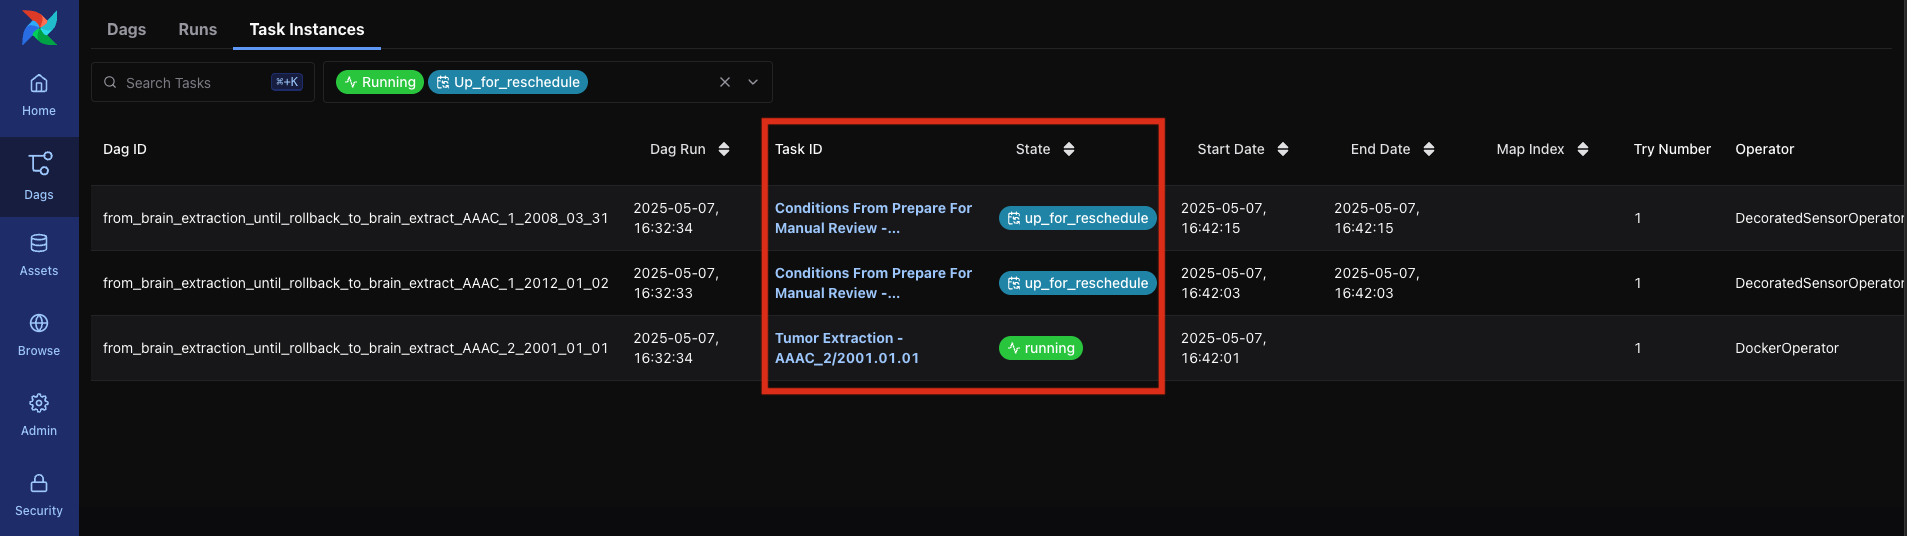
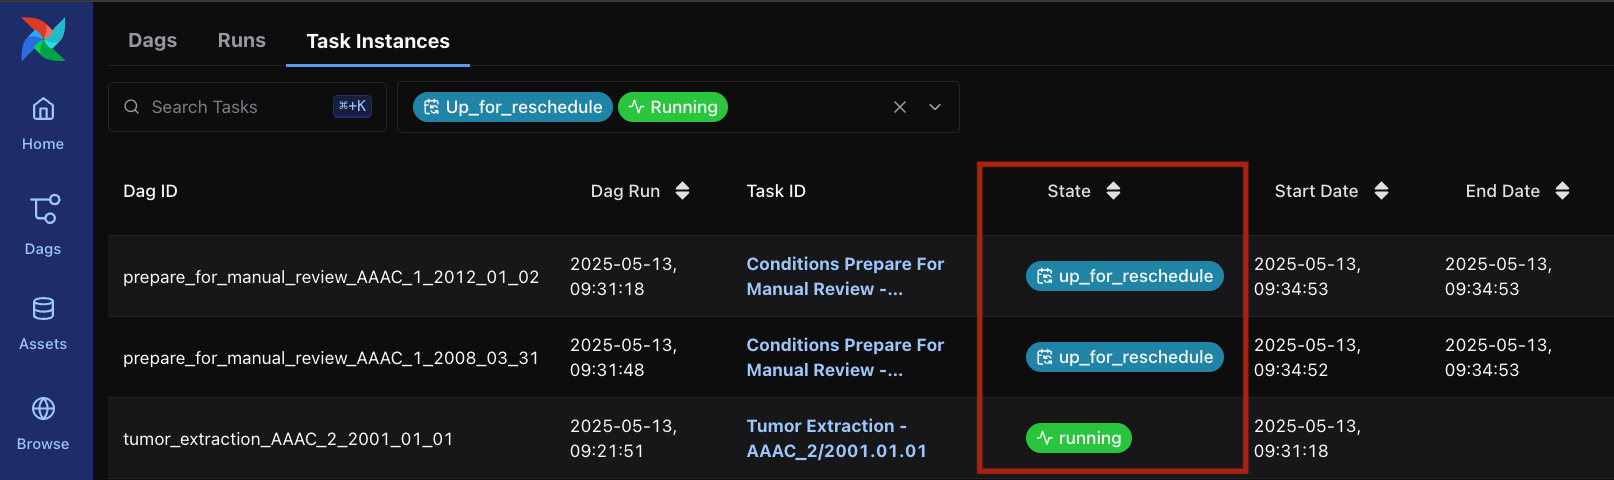
Update README with new 1 DAG per step architecture

diff --git a/pipeline_examples/rano/README.md b/pipeline_examples/rano/README.md
@@ -134,17 +134,16 @@ Once logged in, the Airflow home screen will be displayed, as shown below. You c
 
 ![Airflow home screen](./readme_images/airflow_home.png)
 
-
-A list of all currently loaded Airflow DAGs will be displayed, as shown below. The pipeline itself consists of multiple DAGs. Each DAG is tagged with all the steps (from the `dags_from_yaml/rano.yaml` file) and, in case of steps with `per_subject: true`, also by the Subject ID and Timepoint.
+A list of all currently loaded Airflow DAGs will be displayed, as shown below. The pipeline itself consists of multiple DAGs and each DAG maps to one of the `steps` defind in the YAML version of the Pipeline. Each DAG is the corresponding step name, both in its raw format from the YAML file (`some_step`) and in a more readable format (`Some Step`) and, in case of steps with `per_subject: true`, also by the Subject ID and Timepoint.
 
 ![DAG view in Airflow](./readme_images/dag_list.png)
 
-A view of Airflow Task Instances, which more closely match the `steps` defined in the YAML version of the pipeline, may be displayed by clicking the `Task Instances` button at the top of the screen. In this screen, Task Instances may be filtered by their state. We recommend filtering by `Running`, `Failed`, `Success` and `Up for Reschedule` states. The `Up for Reschedule` state is relevant for the Manual Approval Steps discussed in [Section 5.1](#51-manual-approval-steps). The Figure below shows a view of Task Instances with these filters applied, with the `Task Instances` button showcased in red and the state filters in blue.
+A view of Airflow Task Instances, which are the unit of execution used by Airflow, may be displayed by clicking the `Task Instances` button at the top of the screen. In this screen, Task Instances may be filtered by their state. We recommend filtering by `Running`, `Failed`, `Success` and `Up for Reschedule` states. The `Up for Reschedule` state is relevant for the Manual Approval Steps discussed in [Section 5.1](#51-manual-approval-steps). The Figure below shows a view of Task Instances with these filters applied, with the `Task Instances` button showcased in red and the state filters in blue.
 
 ![Task Instances view in Airflow](./readme_images/task_instances_view.png)
 
 ### 5.1 Manual Approval Steps
-The automatic Tumor Segmentations must be manually validated before the Pipeline concludes. To help with finding the tasks that are awaiting for Manual Approval, we recomend going into the Task Instance view described previously and filter by `Up for Schedule` tasks. This is the state that tasks defined `conditions` sections of the YAML Pipeline are set to while awaiting for any of the conditions to be True. Therefore, these tasks will remain in this state until manual review is done. The Figure below shows a Task Instance list view in this situation, with the Task IDs and State in red:
+The automatic Tumor Segmentations must be manually validated before the Pipeline concludes. To help with finding the tasks that are awaiting for Manual Approval, we recomend going into the Task Instance view described previously and filter by `Up for Reschedule` tasks. The pipeline automatically creates the `Conditions Prepare for Manual Review` task to evaluate the `if` fields from the `prepare_for_manual_review` step defined in the YAML file. While awating for approval, these tasks remain in the `Up for Reschedule` state. The Figure below shows a Task Instance list view in this situation, with the Task IDs and State in red:
 
 ![DAGs ready for Manual Review](./readme_images/tasks_manual_review.png)
 
